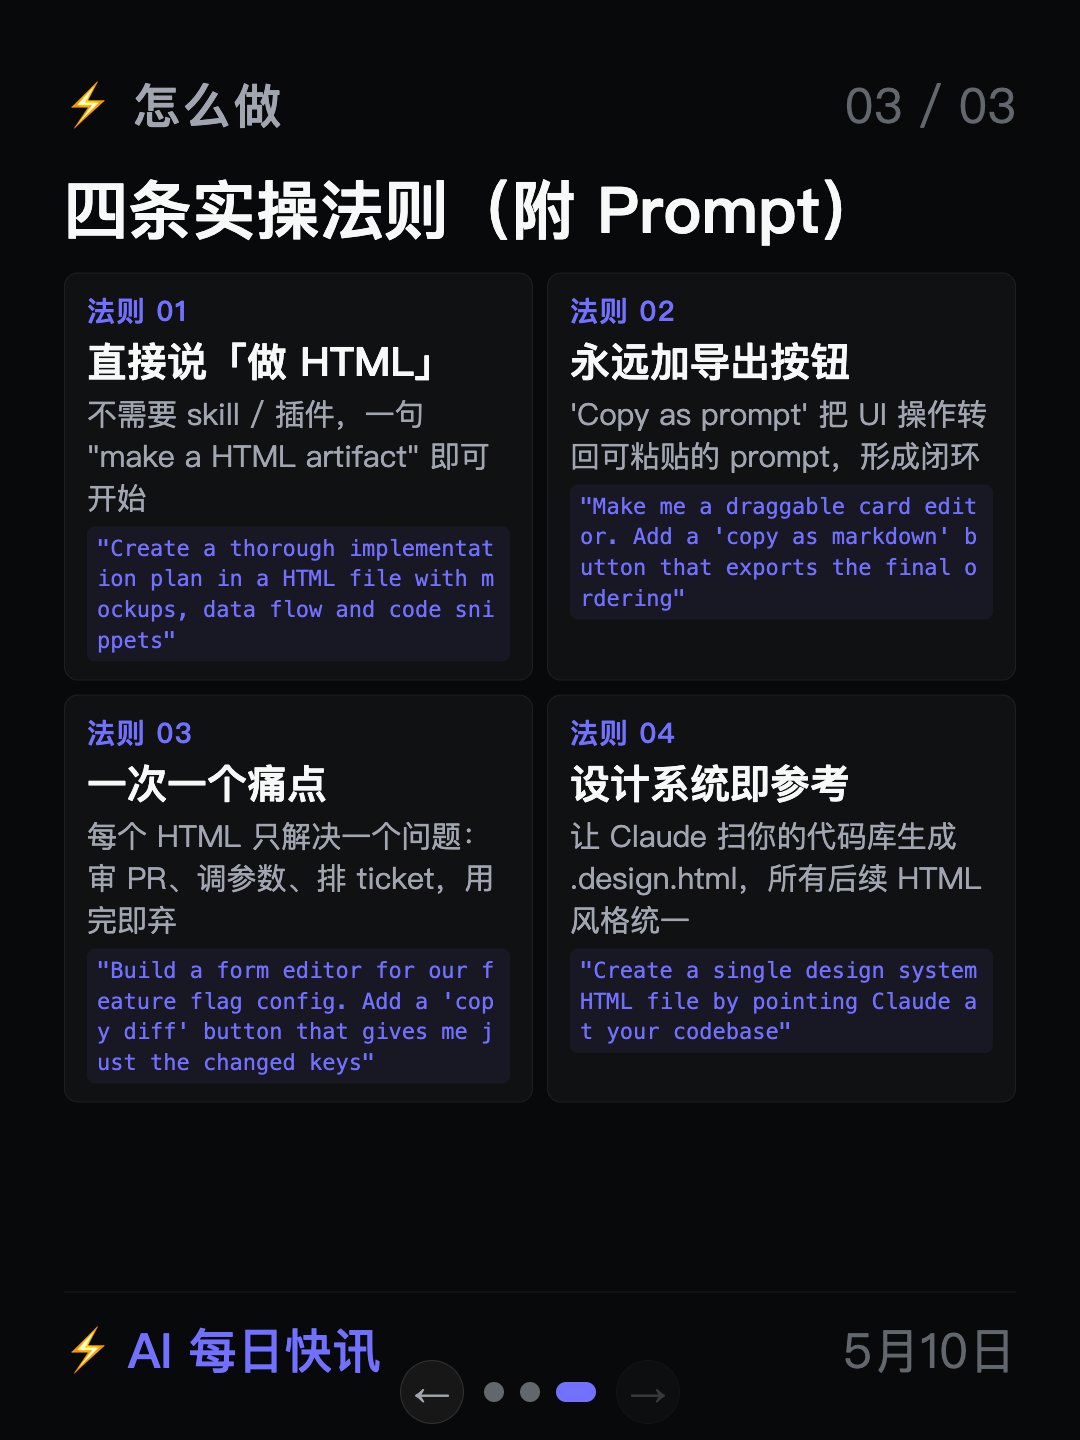
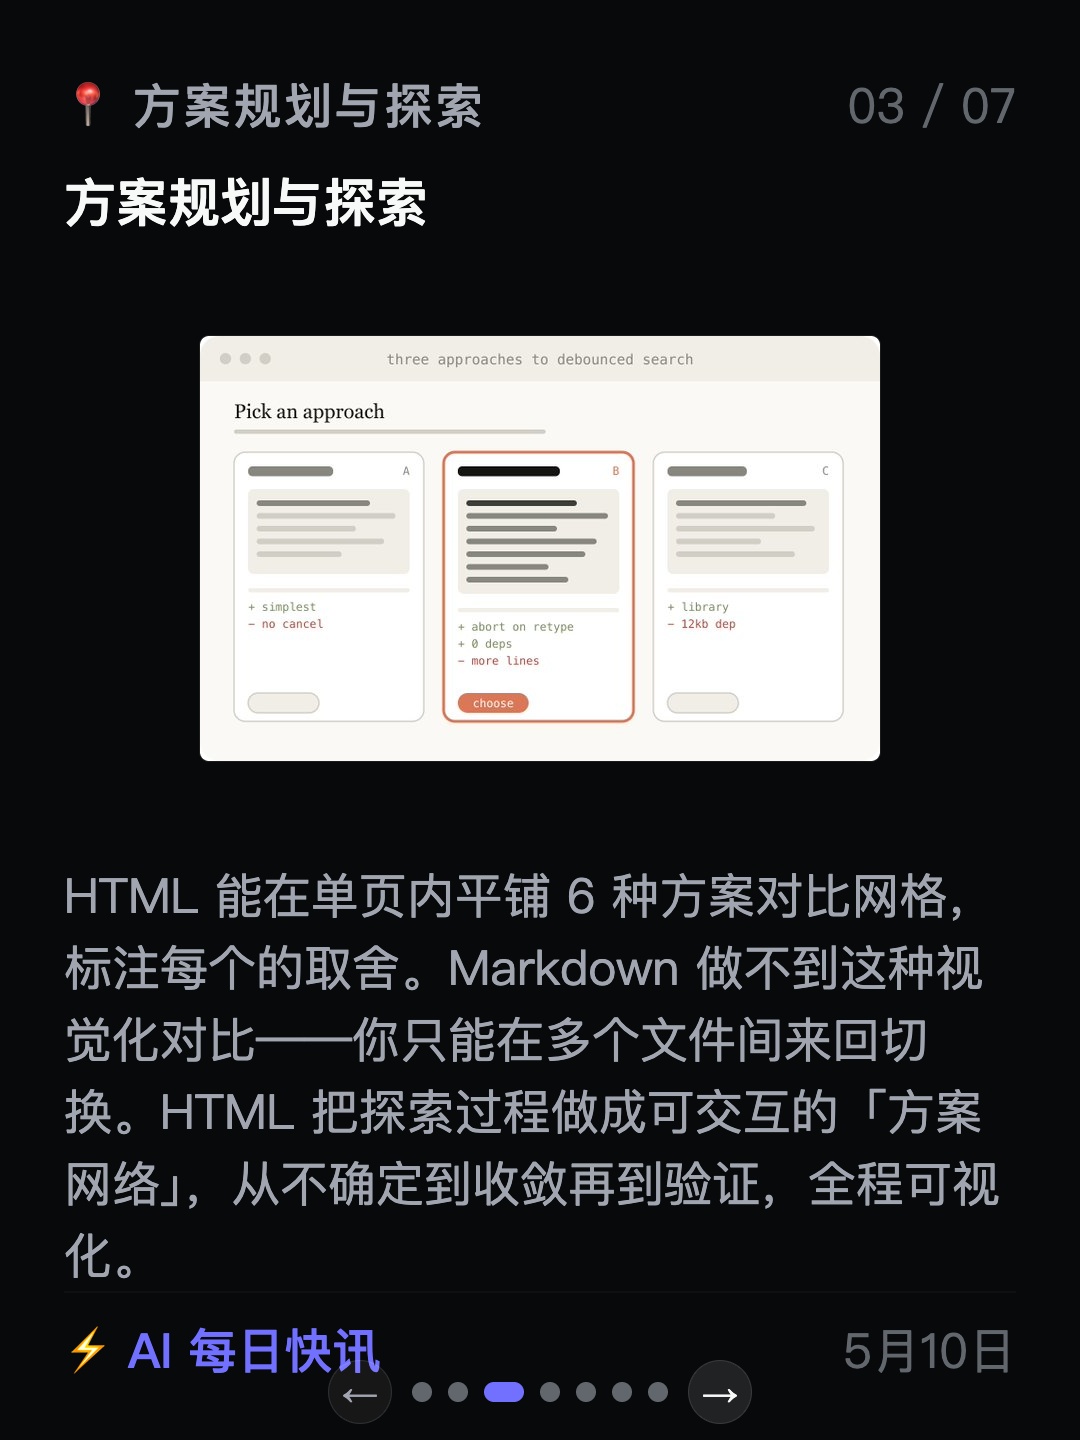
📄 20260510 Thariq HTML 7页卡片 - 为什么HTML比Markdown更好
第1页：核心观点
第2页：为什么HTML
第3页：方案规划与探索
第4页：代码审查与理解
第5页：设计与原型
第6页：报告与研究
第7页：自定义编辑面板

diff --git a/docs/20260510-thariq-html.html b/docs/20260510-thariq-html.html
@@ -94,41 +94,32 @@ body {
 .ab-body strong { color: #f7f8f8; font-weight: 600; }
 .ab-body .accent-text { color: #7170ff; }
 
-/* Page 3 - How-to */
-.ht-title {
-  font-size: 64px; font-weight: 800; color: #f7f8f8;
-  margin-bottom: 24px; line-height: 1.2; flex-shrink: 0;
+/* Pages 3-7: Use Case Pages (large image + single insight) */
+.ucd-container {
+  flex: 1; display: flex; flex-direction: column;
+  overflow: hidden;
 }
-.ht-grid {
-  flex: 1; display: grid; grid-template-columns: 1fr 1fr; gap: 14px;
-  align-content: start;
+.ucd-headline {
+  font-size: 52px; font-weight: 800; color: #f7f8f8;
+  margin-bottom: 20px; flex-shrink: 0; line-height: 1.2;
 }
-.ht-card {
-  background: rgba(255,255,255,0.03);
-  border: 1px solid rgba(255,255,255,0.06);
-  border-radius: 14px; padding: 18px 22px;
-  display: flex; flex-direction: column; gap: 4px;
+.ucd-img-wrap {
+  flex: 1; display: flex; align-items: center; justify-content: center;
+  margin-bottom: 16px; overflow: hidden;
 }
-.ht-num {
-  font-size: 28px; font-weight: 600; color: #7170ff;
-  letter-spacing: 0.05em; margin-bottom: 2px;
+.ucd-img-wrap img {
+  max-height: 100%; max-width: 100%;
+  width: auto; height: auto;
+  border-radius: 10px;
+  border: 1px solid rgba(255,255,255,0.08);
+  object-fit: contain;
 }
-.ht-name {
-  font-size: 40px; font-weight: 700; color: #f7f8f8;
-  line-height: 1.25; margin-bottom: 2px;
+.ucd-insight {
+  flex-shrink: 0;
+  font-size: 48px; font-weight: 400; color: #a0a5b0;
+  line-height: 1.5;
 }
-.ht-principle {
-  font-size: 30px; font-weight: 400; color: #a0a5b0;
-  line-height: 1.4;
-}
-.ht-ptag {
-  font-size: 22px; font-weight: 400; color: #7170ff;
-  font-family: 'SF Mono', 'Menlo', monospace;
-  line-height: 1.4; margin-top: 4px;
-  background: rgba(113,112,255,0.08);
-  border-radius: 8px; padding: 6px 10px;
-  word-break: break-all;
-}
+.ucd-insight strong { color: #f7f8f8; font-weight: 600; }
 
 /* Footer */
 .card-footer {
@@ -168,11 +159,11 @@ body {
 <body>
 <div class="viewer" id="viewer">
 
-  <!-- Page 1: 名人名言 -->
+  <!-- Page 1: 核心观点 -->
   <div class="card active" id="page0">
     <div class="page-top">
       <span class="label">⚡ 核心观点</span>
-      <span class="page-num">01 / 03</span>
+      <span class="page-num">01 / 07</span>
     </div>
     <div class="pc-headline">
       我越来越倾向于用<br>
@@ -193,11 +184,11 @@ body {
     </div>
   </div>
 
-  <!-- Page 2: 观点解析 -->
+  <!-- Page 2: 为什么 HTML -->
   <div class="card" id="page1">
     <div class="page-top">
       <span class="label">🧠 为什么是 HTML</span>
-      <span class="page-num">02 / 03</span>
+      <span class="page-num">02 / 07</span>
     </div>
     <div class="analysis-title">三个不可替代的优势</div>
     <div class="analysis-body">
@@ -226,37 +217,103 @@ body {
     </div>
   </div>
 
-  <!-- Page 3: 怎么做 -->
+  <!-- Page 3: 方案规划与探索 -->
   <div class="card" id="page2">
     <div class="page-top">
-      <span class="label">⚡ 怎么做</span>
-      <span class="page-num">03 / 03</span>
+      <span class="label">📍 方案规划与探索</span>
+      <span class="page-num">03 / 07</span>
     </div>
-    <div class="ht-title">四条实操法则（附 Prompt）</div>
-    <div class="ht-grid">
-      <div class="ht-card">
-        <div class="ht-num">法则 01</div>
-        <div class="ht-name">直接说「做 HTML」</div>
-        <div class="ht-principle">不需要 skill / 插件，一句 "make a HTML artifact" 即可开始</div>
-        <div class="ht-ptag">"Create a thorough implementation plan in a HTML file with mockups, data flow and code snippets"</div>
+    <div class="ucd-container">
+      <div class="ucd-headline">方案规划与探索</div>
+      <div class="ucd-img-wrap">
+        <img src="../assets/20260510/thariq-specs.jpg" alt="方案规划与探索示例截图">
       </div>
-      <div class="ht-card">
-        <div class="ht-num">法则 02</div>
-        <div class="ht-name">永远加导出按钮</div>
-        <div class="ht-principle">'Copy as prompt' 把 UI 操作转回可粘贴的 prompt，形成闭环</div>
-        <div class="ht-ptag">"Make me a draggable card editor. Add a 'copy as markdown' button that exports the final ordering"</div>
+      <div class="ucd-insight">
+        HTML 能在单页内平铺 6 种方案对比网格，标注每个的取舍。Markdown 做不到这种视觉化对比——你只能在多个文件间来回切换。HTML 把探索过程做成可交互的「方案网络」，从不确定到收敛再到验证，全程可视化。
       </div>
-      <div class="ht-card">
-        <div class="ht-num">法则 03</div>
-        <div class="ht-name">一次一个痛点</div>
-        <div class="ht-principle">每个 HTML 只解决一个问题：审 PR、调参数、排 ticket，用完即弃</div>
-        <div class="ht-ptag">"Build a form editor for our feature flag config. Add a 'copy diff' button that gives me just the changed keys"</div>
+    </div>
+    <div class="card-footer">
+      <span class="brand">⚡ AI 每日快讯</span>
+      <span class="date">5月10日</span>
+    </div>
+  </div>
+
+  <!-- Page 4: 代码审查与理解 -->
+  <div class="card" id="page3">
+    <div class="page-top">
+      <span class="label">🔍 代码审查与理解</span>
+      <span class="page-num">04 / 07</span>
+    </div>
+    <div class="ucd-container">
+      <div class="ucd-headline">代码审查与理解</div>
+      <div class="ucd-img-wrap">
+        <img src="../assets/20260510/thariq-codereview.png" alt="代码审查示例截图">
       </div>
-      <div class="ht-card">
-        <div class="ht-num">法则 04</div>
-        <div class="ht-name">设计系统即参考</div>
-        <div class="ht-principle">让 Claude 扫你的代码库生成 .design.html，所有后续 HTML 风格统一</div>
-        <div class="ht-ptag">"Create a single design system HTML file by pointing Claude at your codebase"</div>
+      <div class="ucd-insight">
+        HTML 能渲染带边注的 diff、按严重度颜色标记的流程图和模块关系图。Markdown 的代码块只是静态片段，而 HTML 可以把整个 PR 的上下文组织成可浏览的解释页。Thariq 现在每个 PR 都附一个 HTML 解释页，比 GitHub diff 好用得多。
+      </div>
+    </div>
+    <div class="card-footer">
+      <span class="brand">⚡ AI 每日快讯</span>
+      <span class="date">5月10日</span>
+    </div>
+  </div>
+
+  <!-- Page 5: 设计与原型 -->
+  <div class="card" id="page4">
+    <div class="page-top">
+      <span class="label">🎨 设计与原型</span>
+      <span class="page-num">05 / 07</span>
+    </div>
+    <div class="ucd-container">
+      <div class="ucd-headline">设计与原型</div>
+      <div class="ucd-img-wrap">
+        <img src="../assets/20260510/thariq-design.jpg" alt="设计与原型示例截图">
+      </div>
+      <div class="ucd-insight">
+        HTML 可以添加滑块、旋钮实时调参，调好后一键复制参数转成 prompt 贴回 Claude Code。Markdown 无法实现这种双向交互——你只能描述想要的效果，等 AI 重新生成。HTML 让你在视觉上「调」到满意为止，再跨平台实现。
+      </div>
+    </div>
+    <div class="card-footer">
+      <span class="brand">⚡ AI 每日快讯</span>
+      <span class="date">5月10日</span>
+    </div>
+  </div>
+
+  <!-- Page 6: 报告与研究 -->
+  <div class="card" id="page5">
+    <div class="page-top">
+      <span class="label">📋 报告与研究</span>
+      <span class="page-num">06 / 07</span>
+    </div>
+    <div class="ucd-container">
+      <div class="ucd-headline">报告与研究</div>
+      <div class="ucd-img-wrap">
+        <img src="../assets/20260510/thariq-report.jpg" alt="报告与研究示例截图">
+      </div>
+      <div class="ucd-insight">
+        HTML 可以从 Slack、代码、Git 历史、网络多个来源综合信息，产出带 SVG 流程图和交互式图表的长报告甚至幻灯片。Markdown 报告只能靠文字和表格，而 HTML 报告可以分享链接而非附件——阅读率翻倍。
+      </div>
+    </div>
+    <div class="card-footer">
+      <span class="brand">⚡ AI 每日快讯</span>
+      <span class="date">5月10日</span>
+    </div>
+  </div>
+
+  <!-- Page 7: 自定义编辑面板 -->
+  <div class="card" id="page6">
+    <div class="page-top">
+      <span class="label">🛠 自定义编辑面板</span>
+      <span class="page-num">07 / 07</span>
+    </div>
+    <div class="ucd-container">
+      <div class="ucd-headline">自定义编辑面板</div>
+      <div class="ucd-img-wrap">
+        <img src="../assets/20260510/thariq-editor.jpg" alt="自定义编辑面板示例截图">
+      </div>
+      <div class="ucd-insight">
+        HTML 可以做一个专为当前数据定制的拖拽面板或配置编辑器，用完即弃。Markdown 无法承载这种交互操作——你只能通过文字描述指挥 AI。HTML 让编辑变得直观，最后用导出按钮把结果转回 prompt 形成闭环。
       </div>
     </div>
     <div class="card-footer">
@@ -272,6 +329,10 @@ body {
       <button class="dot active" onclick="goTo(0)"></button>
       <button class="dot" onclick="goTo(1)"></button>
       <button class="dot" onclick="goTo(2)"></button>
+      <button class="dot" onclick="goTo(3)"></button>
+      <button class="dot" onclick="goTo(4)"></button>
+      <button class="dot" onclick="goTo(5)"></button>
+      <button class="dot" onclick="goTo(6)"></button>
     </div>
     <button class="nav-btn" id="nextBtn" onclick="flip(1)">→</button>
   </div>
@@ -279,7 +340,7 @@ body {
 
 <script>
 let current = 0;
-const total = 3;
+const total = 7;
 function flip(dir) {
   const next = current + dir;
   if (next < 0 || next >= total) return;
